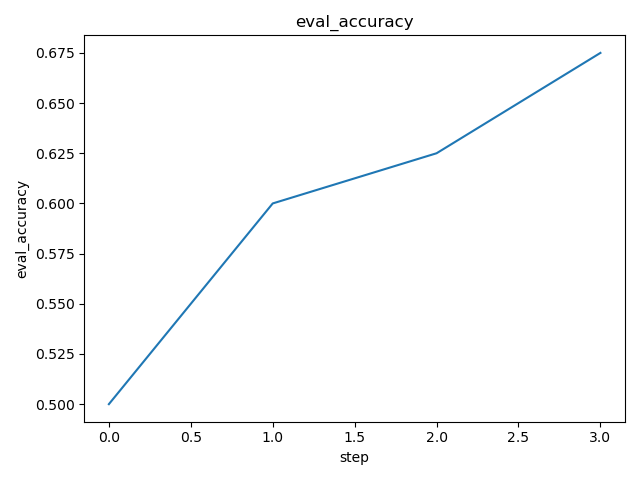
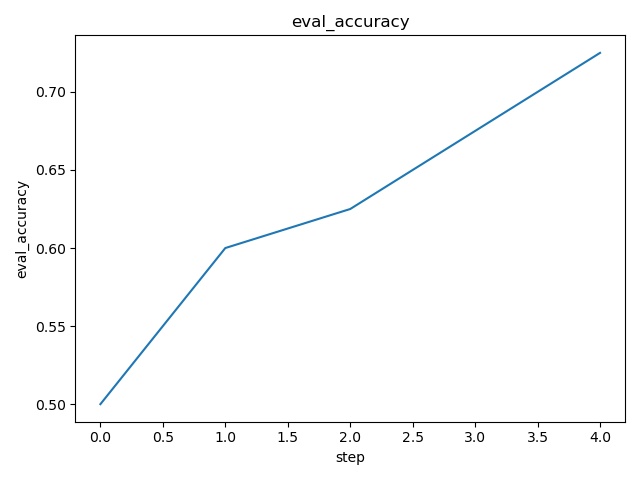
dvc: commit experiment a638aba1f82f3c036b948c843ab6b55270021ed2bf581d0232ee4fbc12990afa

diff --git a/data/ogt_protein_classifier/dvclive/report.md b/data/ogt_protein_classifier/dvclive/report.md
@@ -4,7 +4,7 @@ metrics.json
 
 |   loss |   learning_rate |   epoch |   eval_loss |   eval_f1 |   eval_accuracy |   eval_matthew |   eval_runtime |   eval_samples_per_second |   eval_steps_per_second |   step |
 |--------|-----------------|---------|-------------|-----------|-----------------|----------------|----------------|---------------------------|-------------------------|--------|
-| 0.2033 |         4.2e-05 |       8 |    0.680442 |  0.754717 |           0.675 |       0.460566 |         3.3089 |                    24.178 |                   0.604 |      3 |
+| 0.1098 |           4e-05 |      10 |    0.665867 |  0.784314 |           0.725 |       0.538816 |         3.2685 |                    24.476 |                   0.612 |      4 |
 
 ![static/eval_steps_per_second](static/eval_steps_per_second.png)
 
